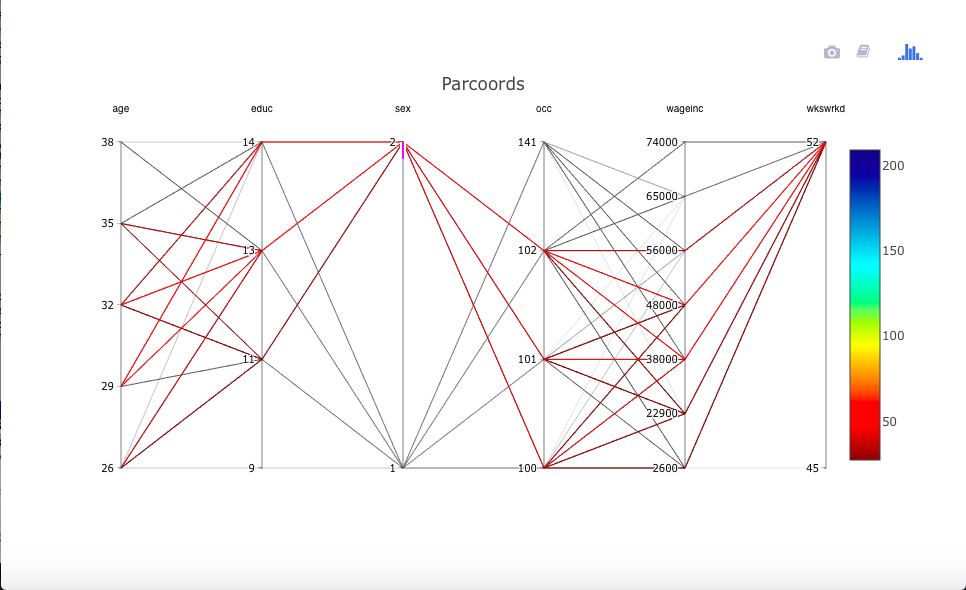
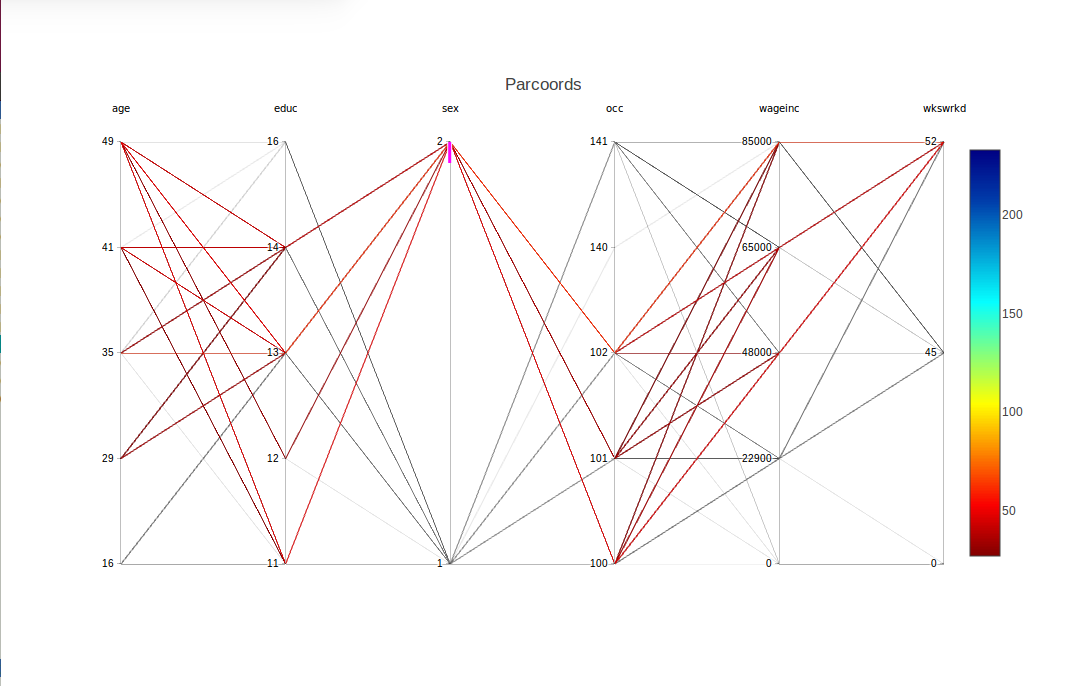
updated due to revision of discretize()

diff --git a/README.md b/README.md
@@ -53,15 +53,15 @@ library(cdparcoord)
 
 ##### Example
 
-This example involves data from the 2000 U.S. census, on programmers and
+This example involves data from the 2000 U.S. census on programmers and
 engineers in Silicon Valley, a dataset included with the package.
 
 Suppose our interest is exploring whether women encounter wage
 discrimination.  Of course we won't settle such a complex question here,
 but it will serve as a good example of the use of the package.
 
-We first load the data, and select some of the columns for display/ We
-also remove same very high wages (at least in the context of the year
+We first load the data, and select some of the columns for display. We
+also remove some very high wages (at least in the context of the year
 2000) to make the display easier.
 
 ```R
@@ -70,23 +70,27 @@ pe <- prgeng[,c(1,3,5,7:9)]
 pe25 <- pe[pe$wageinc < 250000,]
 ```
 
+The resulting data has just under 20,000 rows.
+
 As mentioned, a key feature of the package is discretization of
 continuous variables, so that tuple frequency counts have meaning. We
 will do this via the package's **discretize()** function, which we will
 apply to the numeric variables.
 
 However, in this particular data set, there are variables that seem
-numeric but are in essence factors, as the are codes.  For the **educ**
-variable, for instance, 14 codes a master's degree. (A code list is
-available at the [Census Bureau
+numeric but are in essence factors, as they are codes.  For the **educ**
+variable, for instance, the number 14 codes a master's degree. (A code
+list is available at the [Census Bureau
 site](https://www.census.gov/prod/cen2000/doc/pums.pdfr).)
 
 So, let's change the coded variables to factors, and then discretize:
 
 ```R
 pe25 <- makeFactor(pe25,c('educ','occ','sex'))
-pe25disc <- discretize(pe25)  # using default options
+pe25disc <- discretize(pe25,nlevels=5)  
 ```
+
+Each of the numeric variables here is discretized into 5 levels.
 
 Now display:
 
@@ -101,19 +105,17 @@ patterns. The result is
 
 For example, there is a blue line corresponding to the tuple,
 
-(age=29,educ=13,occ=102,sex=1,wageinc=38000,wkswrkd=52)
+(age=35,educ=14,occ=102,sex=1,wageinc=100000,wkswrkd=52)
 
-(The line actually splits into two at the **wageinc** variable.)  The
-frequencies are color-coded accoring to the legend at the right. So
-the above tuple occurred something like 180 times in the data.
+The frequencies are color-coded accoring to the legend at the right. So
+the above tuple occurred something like 60 times in the data.
 
 What about the difference between males and females (coded 1 and 2)?
-Though there is consider range in wages for the two groups, visually 
-there seems to be some suggestion that the women's wages tend to be
-lower.
+One interesting point is that there seems to be greater range in the
+men's salaries.  At the high end, though, men seem to have the edge.
 
-However, if this is the case, it may be explained by differences between
-the two groups in other variables.  For instance, do women tend to be in
+Now, can that edge may be explained by differences between
+the two groups in other variables?  For instance, do women tend to be in
 lower-paying occupations?  To investigate that, let's move the **occ**
 column to be adjacent to **wageinc**.
 
@@ -126,10 +128,12 @@ column.  The result is
 <img src="vignettes/PE2.png" alt="n1" width="800"/>
 
 Again, there is a range for each occupation. However, looking at the
-more-frequent lines, the blue and yellow ones, occupations 141 and 102
-seem to pay more.  (More on this point below.)  And if so, that seems to
-be bad news for the women, as there appears to a be slight tendency for
-the women to be more concentrated in occupations 101 and 100.
+more-frequent lines, occupation 102 seems to rather lucrative (and
+possibly 140 and 141).  And if so, that seems to be bad news for the
+women, as occupation 102 seems more populated by men.  On the other
+hand, this might help explain the high-end salary gap found above.
+Another possible piece of evidence in this direction is that the graph
+seems to say the men tend to have higher levels of education.
 
 To obtain a somehwat finer look, we can use another feature supplied by
 **plotly**, a form of *brushing*. Here we highlight the women's lines by
@@ -139,39 +143,31 @@ stay in color:
 
 <img src="vignettes/PE3.png" alt="n1" width="800"/>
 
-Now it really does appear that there is some tendency for the women to
-be working in the less lucrative occupations.
+The fact that we requested brushing for **sex** = 2 is confirmed in the
+graph by the appearance of a short magenta-colored line segment just
+below the 2 tick mark.
 
-Multiple columns can be brushed together. Brushing is indicated by a
-small coloring of a portion of the line.  To turn off brushing, click
-and drag on an uncolored portion.
-
-By the way, we used the default values of **discretize()** here.  What
-occurs there?  The function attempt to discretize only the variables
-that need it, certainly not those that are R factors. Even if a numeric
-variable is found, the function not work on it if it has fewer distinct
-values than **nlevels**, on the grounds that it likely should be a
-factor.  Finer control of  **discretize()** will be demonstrated in the
-examples below.
+Multiple columns can be brushed together.  To turn off brushing, click
+and drag on a non-magenta portion of the axis.
 
 # Example
 
 Here we try the [Stanford WordBank
 data](http://wordbank.stanford.edu/analyses?name=instrument_data) on
-vocabulary acquisition in children.  We have a data frame **wb**.
+vocabulary acquisition in children.  The file used was **English.csv**,
+from which we have a data frame **wb**, consisting of about 5500 rows.
+(There are many NA values, though, and only about 2800 complete cases.)
 
 ```R
 wb <- wb[,c(2,5,7,8,10)] 
-wb <- discretize(wb,nlevels=3) 
-discparcoord(wb,k=50) 
+wb <- discretize(wb,nlevels=5) 
+discparcoord(wb,k=100) 
 ```
 
-The default value of **nlevels** is 10, meaning that each continuous
-variable will be discretized into 10 levels. Here we asked for only 3
-levels for each variable, as there would seem to not be enough data for
-finer granularity. (As noted in the Tips section, **cdparcoord**, like
-any graphical exploratory tool, is best used by trying a number of
-different parameter combinations, e.g. varying **nlevels** here.)
+We again asked for 5 levels for each variable.  As noted in the Tips
+section below, though, **cdparcoord**, like any graphical exploratory
+tool, is best used by trying a number of different parameter
+combinations, e.g.  varying **nlevels** here.
 
 This produces
 
@@ -184,23 +180,24 @@ We can use **reOrder** to remedy that:
 ```R
 wb <- reOrder(wb,'mom_ed',
    c('Secondary','Some College','College','Some Graduate','Graduate'))
-discparcoord(z,k=50)
+discparcoord(wb,k=100)
 ```
 
 <img src="vignettes/WB2.png" alt="n1" width="800"/>
 
 By the way, there were further levels in the **mom\_ed** variable,
 'Primary' and 'Some Secondary', but they didn't show up here, as we
-plotted only the top 50 lines. (Or we set **nlevels** at a higher value
+plotted only the top 100 lines. (Or we set **nlevels** at a higher value
 that could be tolerated by this data.) There was a similar issue with
 missing levels on **birth\_order**.
 
 Speaking of the latter, the earlier-born children seem to be at an
-advantage, at least in the three orders shown here.
+advantage, at least in the two orders that show up here.
 
 Now suppose we wish to study girls with mothers having at least a
 college education. Again we can use brushing, this time with two
-variables together, and two values together in one of the variables:
+variables **sex** and **mom\_ed** together, and several values together
+in the latter variables: 
 
 <img src="vignettes/WB3.png" alt="n1" width="800"/>
 
